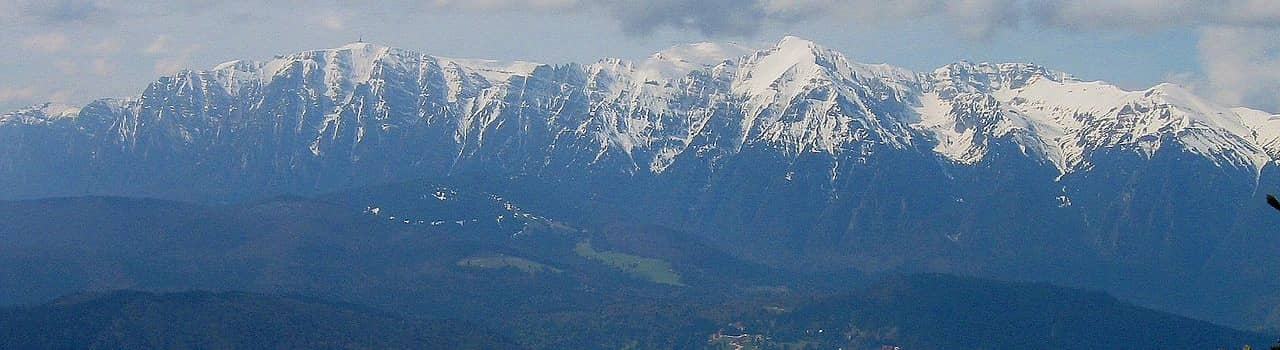
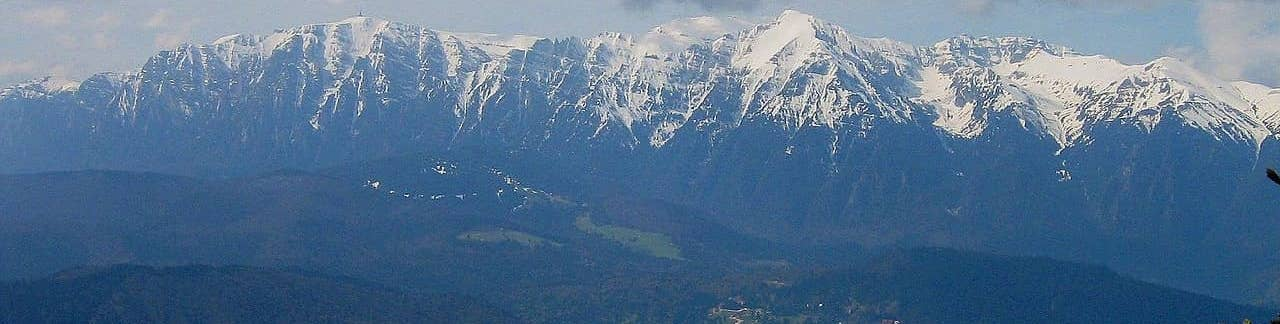
improve mountain background image

diff --git a/apps/frontend/src/app/app.component.spec.ts b/apps/frontend/src/app/app.component.spec.ts
@@ -1,13 +1,13 @@
 import { TestBed } from '@angular/core/testing';
 import { AppComponent } from './app.component';
 import { RouterTestingModule } from '@angular/router/testing';
-import { UiLogoModule } from '@ottoschuster/ui/logo';
+import { SharedUiLogoModule } from '@ottoschuster/shared/ui/logo';
 
 describe('AppComponent', () => {
   beforeEach(async () => {
     await TestBed.configureTestingModule({
       declarations: [AppComponent],
-      imports: [RouterTestingModule, UiLogoModule],
+      imports: [RouterTestingModule, SharedUiLogoModule],
     }).compileComponents();
   });
 

diff --git a/apps/frontend/src/app/app.component.scss b/apps/frontend/src/app/app.component.scss
@@ -5,7 +5,7 @@
 header {
   background-image: url('../assets/Muntii_Bucegi.jpg');
   background-size: cover;
-  background-position: center center;
+  background-position: top center;
   background-repeat: no-repeat;
   height: 250px;
   display: grid;
